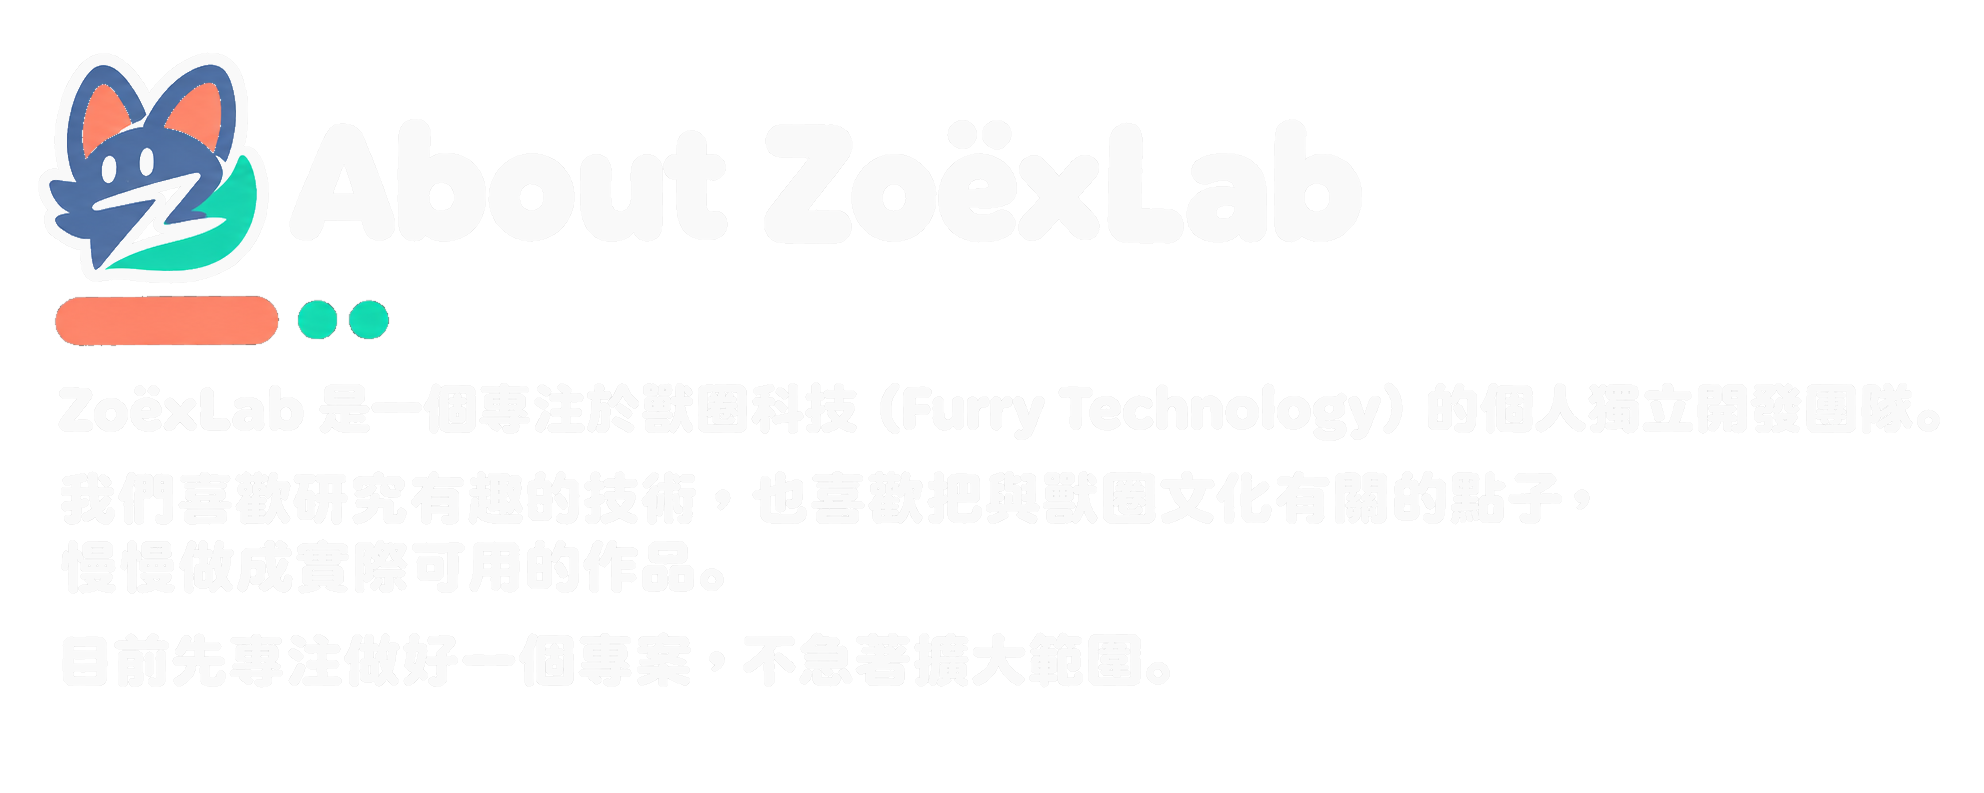
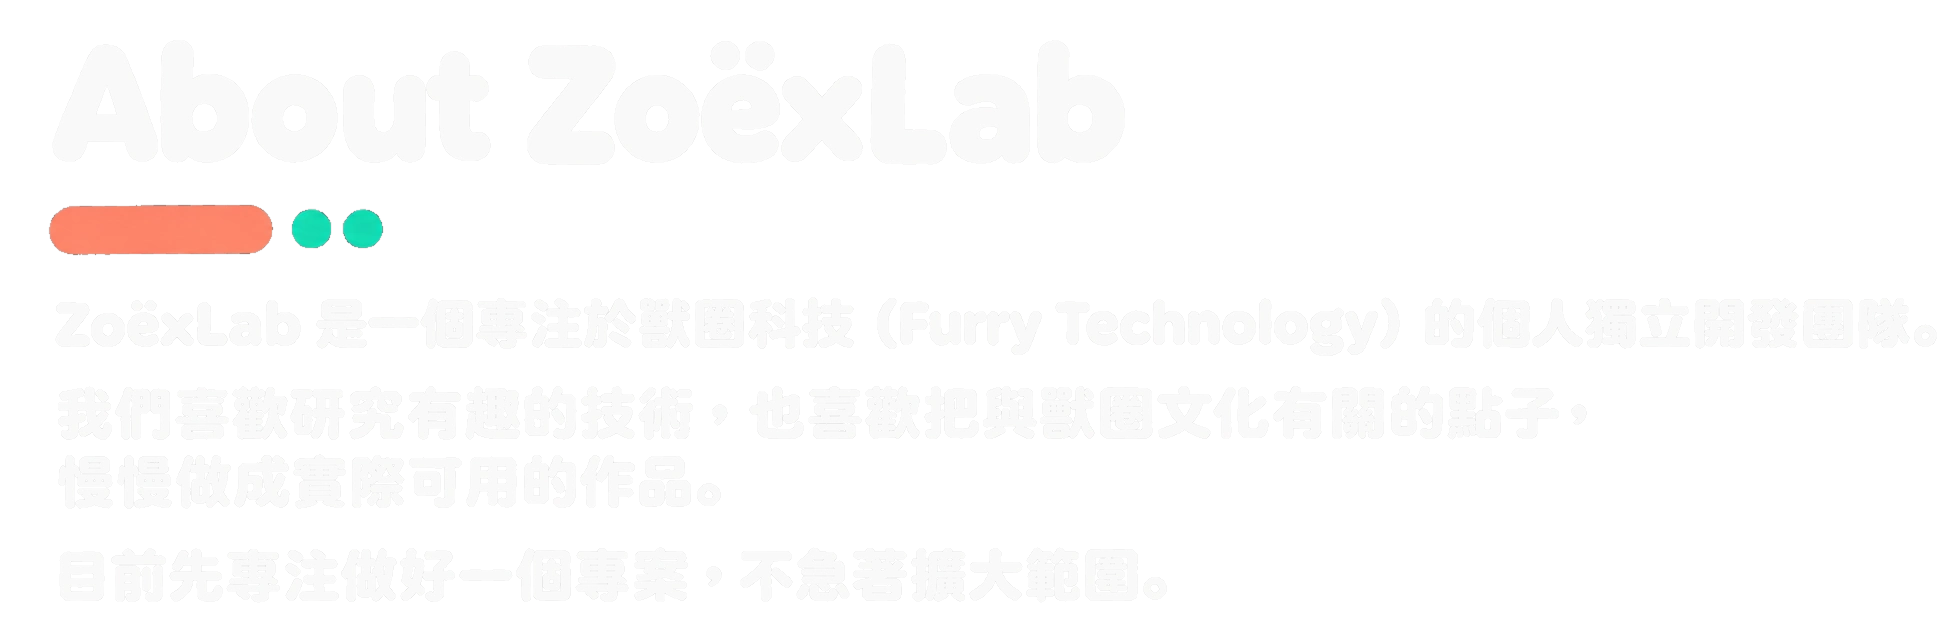
Update profile layout, image assets, and sizing

Changed region(s): [[0.0, 0.0608, 0.2179, 0.456]]

diff --git a/profile/README.md b/profile/README.md
@@ -1,20 +1,27 @@
-<div align="center">
+<div align="left">
+  <div align="center">
+    <picture>
+      <img src="../assets/zoexlab_banner.webp" width="100%" alt="ZoëxLab">
+    </picture>
+  </div>
 
-<picture>
-  <img src="../assets/zoexlab_banner.webp" width="100%" alt="ZoëxLab">
-</picture>
+  <picture>
+    <source media="(prefers-color-scheme: dark)" srcset="../assets/about-dark.webp">
+    <source media="(prefers-color-scheme: light)" srcset="../assets/about-light.webp">
+    <img src="../assets/about-light.webp" width="100%" alt="About ZoëxLab">
+  </picture>
 
-<picture>
-  <source media="(prefers-color-scheme: dark)" srcset="../assets/about-dark.webp">
-  <source media="(prefers-color-scheme: light)" srcset="../assets/about-light.webp">
-  <img src="../assets/about-light.webp" width="100%" alt="About ZoëxLab">
-</picture>
+  <picture>
+    <source media="(prefers-color-scheme: dark)" srcset="../assets/current-project-heading-dark.webp">
+    <source media="(prefers-color-scheme: light)" srcset="../assets/current-project-heading-light.webp">
+    <img src="../assets/current-project-heading-light.webp" width="500%" alt="current-project-header">
+  </picture>
 
-<picture>
-  <source media="(prefers-color-scheme: dark)" srcset="../assets/current-project-dark.webp">
-  <source media="(prefers-color-scheme: light)" srcset="../assets/current-project-light.webp">
-  <img src="../assets/current-project-light.webp" width="100%" alt="電子獸牌">
-</picture>
+  <picture>
+    <source media="(prefers-color-scheme: dark)" srcset="../assets/electronic-badge-dark.webp">
+    <source media="(prefers-color-scheme: light)" srcset="../assets/electronic-badge-light.webp">
+    <img src="../assets/electronic-badge-light.webp" width="60%" alt="電子獸牌">
+  </picture>
 
 </div>
 
@@ -22,6 +29,6 @@
 
 <div align="center">
 
-**@ZoëxLab**
+**@ZoëxLab** · *Small lab, big curiosity.*
 
 </div>
